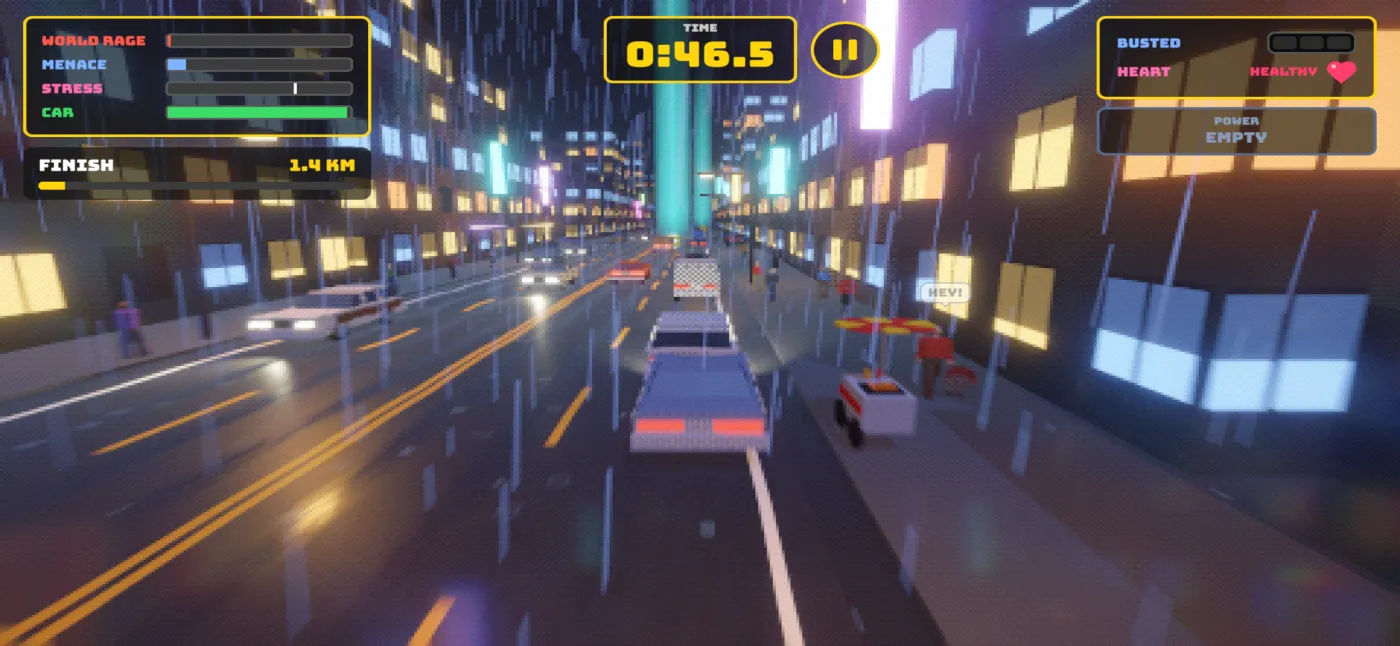
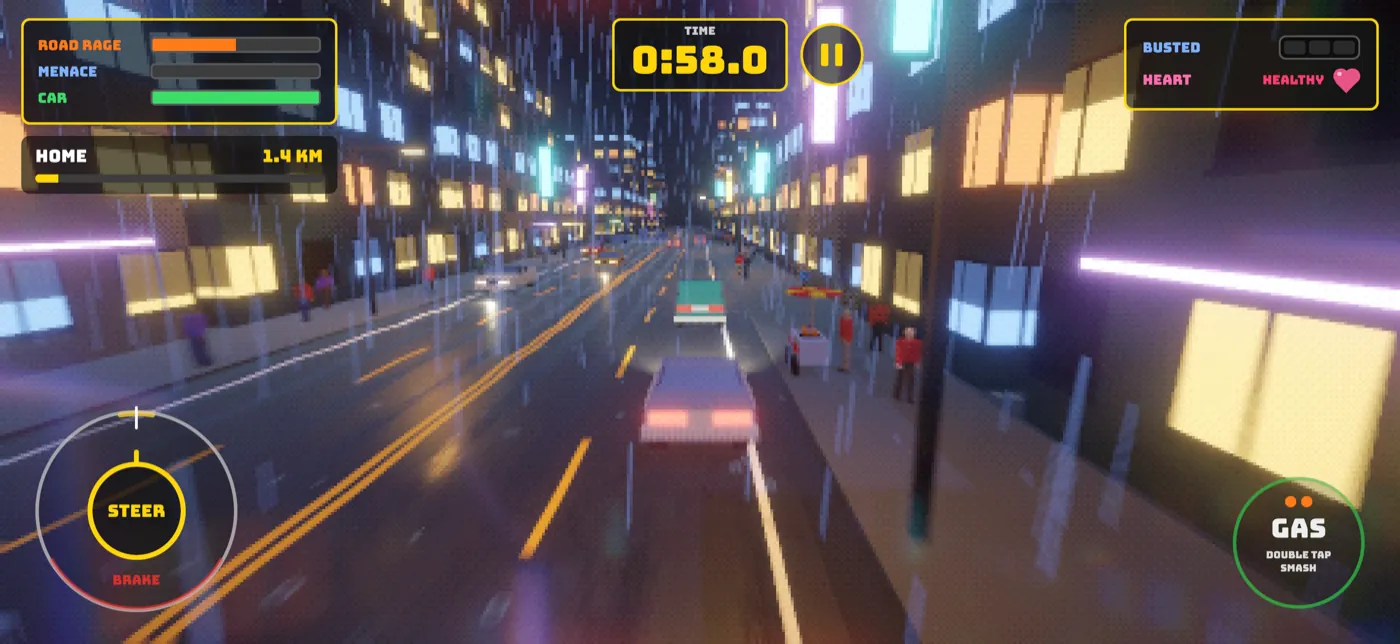
Marketing refresh for 1.0.4: new screenshots and hero at the new lighting looks; copy for the ROAD RAGE meter, random looks, gesture controls, Practice Lot and goal lines (#8)

diff --git a/index.html b/index.html
@@ -13,7 +13,9 @@
 <meta property="og:description" content="Road Rage is a fast, chaotic driving game for iPhone, iPad and Android. Get from A to B before the clock runs out, by any means necessary.">
 <meta property="og:type" content="website">
 <meta property="og:url" content="https://roadrage99.com/">
-<meta property="og:image" content="https://roadrage99.com/img/downtown.webp">
+<meta property="og:image" content="https://roadrage99.com/img/og-night-city.jpg">
+<meta property="og:image:width" content="1200">
+<meta property="og:image:height" content="630">
 </head>
 <body>
 <a class="skip" href="#main">Skip to content</a>
@@ -27,37 +29,41 @@
 <p><a class="btn" href="#get">Get the game</a> <a class="btn alt" href="support.html">How to play</a></p>
 </div></section>
 <div class="wrap">
-<p class="lead">You are late, the traffic is slow and the clock is not on your side. Floor it from A to B through fifteen chaotic levels: desert highways, rush-hour downtown, a rainy neon night, a mountain pass, the school run. Shove through traffic, take the secret shortcuts, and try not to make the cops, or your own heart, too angry.</p>
+<p class="lead">You are late, the traffic is slow and the clock is not on your side. Floor it from A to B through fifteen chaotic levels: desert highways, rush-hour downtown, a rainy neon night, a mountain pass, the school run. Getting hit or stuck in traffic fills your ROAD RAGE meter. Unleash it and smash everything in your way, or sit on it and your heart gives out. Every run picks a new look, from dusk skies to neon-soaked wet streets.</p>
 <figure class="shot"><video src="img/rage-mode.mp4" poster="img/rage-mode-poster.webp" width="848" height="384" autoplay muted loop playsinline preload="metadata" aria-label="Road Rage gameplay: the ROAD RAGE meter fills in Night City traffic, then Rage Mode smashes cars out of the way"></video><figcaption>Stuck behind traffic? Slide up to ROAD RAGE and smash your way through.</figcaption></figure>
-<figure class="shot"><img src="img/downtown.webp" width="1400" height="646" alt="Road Rage gameplay: a car driving down a busy downtown street with a countdown timer and touch controls" loading="lazy" decoding="async"><figcaption>Downtown at rush hour. Hold to drive, steer with your thumb, and SMASH anything slow.</figcaption></figure>
+<figure class="shot"><img src="img/night-city.webp" width="1400" height="644" alt="Road Rage gameplay: a car driving through a rainy neon city at night, with the gesture touch controls" loading="lazy" decoding="async"><figcaption>Night City: SEETHE THROUGH THE STORM! Hold to drive, steer with your thumb, and double-tap to SMASH anything slow.</figcaption></figure>
 <h2>What you get</h2>
 <div class="grid three">
-<div class="card"><h3>15 levels</h3><p>From the Desert Highway to Downtown, Night City, Harbor, Mountain Pass, Pizza Delivery, Street Race and the Pursuit survival mode.</p></div>
+<div class="card"><h3>15 levels</h3><p>From the Desert Highway to Downtown, Night City, Harbor, Mountain Pass, Pizza Delivery, Street Race, Golden Gate Park and the Pursuit survival mode. Each one has a goal, and the goals are angry: GET TO THE D#%@ DENTIST!</p></div>
+<div class="card"><h3>One ROAD RAGE meter</h3><p>Getting hit, rammed or stuck behind traffic fills it. When it is full, UNLEASH IT: a few seconds of smashing cars out of your way. Wait too long and the chest pains start.</p></div>
+<div class="card"><h3>A new look every run</h3><p>Over 40 lighting looks across the levels: neon nights with lit windows, rain-slicked roads, fog, golden hour and dusk skies. Same road, different mood, every time you play.</p></div>
 <div class="card"><h3>6 cars and a garage</h3><p>The all-rounder Drifter, the fast Rocket, the tough Boulder, the Hauler, the Muscle and the Taxi. Earn Gas Money, buy cars and upgrade speed, steering, suspension and toughness.</p></div>
-<div class="card"><h3>Built for phone and pad</h3><p>Touch controls out of the box, plus gamepad support, including Bluetooth controllers.</p></div>
+<div class="card"><h3>Powers and cops</h3><p>Grab crates for the Juggernaut, Ramp Plow, Mech Bat, Parting of the Sea and more. Drive like a maniac and the cops pull you over: talk your way out fast.</p></div>
+<div class="card"><h3>Built for phone and pad</h3><p>Gesture controls out of the box (hold to drive, double-tap to smash), classic buttons if you prefer, and gamepad support, including Bluetooth controllers. The Practice Lot teaches you the ropes on your first drive.</p></div>
 </div>
 <div class="grid two" style="margin-top:1.5rem">
-<figure class="shot"><img src="img/night-city.webp" width="1400" height="646" alt="Road Rage gameplay: a car driving through a rainy neon city at night" loading="lazy" decoding="async"><figcaption>Night City: neon, rain and a shift with nothing better to do.</figcaption></figure>
-<figure class="shot"><img src="img/mountain-pass.webp" width="1400" height="646" alt="Road Rage gameplay: a car on a mountain highway with a guardrail" loading="lazy" decoding="async"><figcaption>Mountain Pass.</figcaption></figure>
-<figure class="shot"><img src="img/street-race.webp" width="1400" height="646" alt="Road Rage gameplay: a street race with a checkpoint arrow" loading="lazy" decoding="async"><figcaption>Street Race: first of four, checkpoint 1.</figcaption></figure>
-<figure class="shot"><img src="img/school-run.webp" width="1400" height="646" alt="Road Rage gameplay: a car driving past a crowded sidewalk" loading="lazy" decoding="async"><figcaption>The School Run.</figcaption></figure>
+<figure class="shot"><img src="img/road-rage-mode.webp" width="1400" height="644" alt="Road Rage gameplay: Rage Mode unleashed, cars flying off the road in a red haze at dusk" loading="lazy" decoding="async"><figcaption>RAGE MODE: cars bounce off you for a few glorious seconds.</figcaption></figure>
+<figure class="shot"><img src="img/juggernaut.webp" width="1400" height="644" alt="Road Rage gameplay: the Juggernaut power launching a car into the air on a suburban street at dusk" loading="lazy" decoding="async"><figcaption>The Juggernaut power: bigger, heavier, and everything else flies.</figcaption></figure>
+<figure class="shot"><img src="img/desert-highway.webp" width="1400" height="644" alt="Road Rage gameplay: a desert highway at dusk with red mesas and headlights" loading="lazy" decoding="async"><figcaption>Desert Highway at dusk: GET TO THE D#%@ DENTIST!</figcaption></figure>
+<figure class="shot"><img src="img/downtown.webp" width="1400" height="644" alt="Road Rage gameplay: a downtown street at night with neon signs, lit windows and rain" loading="lazy" decoding="async"><figcaption>Downtown on a neon night: RAM THROUGH RUSH HOUR!</figcaption></figure>
+<figure class="shot"><img src="img/pulled-over.webp" width="1400" height="644" alt="Road Rage gameplay: pulled over by a police car on a wet street at night, with a TALK button to mash" loading="lazy" decoding="async"><figcaption>Pulled over. Tap fast to talk your way out; three stops and you are busted.</figcaption></figure>
+<figure class="shot"><img src="img/harbor-storm.webp" width="1400" height="644" alt="Road Rage gameplay: a harbor road between stacked shipping containers in a night storm" loading="lazy" decoding="async"><figcaption>Harbor in a night storm: RAISE HELL THROUGH THE HARBOR!</figcaption></figure>
+<figure class="shot"><img src="img/suburbs-after-rain.webp" width="1400" height="644" alt="Road Rage gameplay: a wet suburban street in the evening after rain" loading="lazy" decoding="async"><figcaption>The Suburbs after the rain: SCORCH THE SUBURBS!</figcaption></figure>
+<figure class="shot"><img src="img/ocean-sunset.webp" width="1400" height="644" alt="Road Rage gameplay: a park road at sunset with the ocean on the horizon" loading="lazy" decoding="async"><figcaption>Golden Gate Park at sunset: DAZZLE YOUR DATE... OR ELSE!</figcaption></figure>
+<figure class="shot"><img src="img/mountain-pass.webp" width="1400" height="644" alt="Road Rage gameplay: a mountain highway with a guardrail in golden evening light" loading="lazy" decoding="async"><figcaption>Mountain Pass: LEVEL THE MOUNTAINS WITH FURY!</figcaption></figure>
+<figure class="shot"><img src="img/street-race.webp" width="1400" height="644" alt="Road Rage gameplay: a night street race with a checkpoint arrow and a rival car" loading="lazy" decoding="async"><figcaption>Street Race: BURY ALL 3 RIVALS!</figcaption></figure>
+<figure class="shot"><img src="img/school-run.webp" width="1400" height="644" alt="Road Rage gameplay: the school run at night past a park and lit city towers" loading="lazy" decoding="async"><figcaption>The School Run: BULLDOZE THE SCHOOL RUN!</figcaption></figure>
+<figure class="shot"><img src="img/pizza-delivery.webp" width="1400" height="644" alt="Road Rage gameplay: delivering a pizza on a rainy night, stopping at the glowing ring" loading="lazy" decoding="async"><figcaption>Pizza Delivery in the rain: stop at the glowing ring.</figcaption></figure>
 </div>
 <div class="grid two" style="margin-top:1.5rem">
 <figure class="shot"><img src="img/garage.webp" width="1400" height="646" alt="Road Rage garage screen with the blue Drifter, upgrade bars and prices in Gas Money" loading="lazy" decoding="async"><figcaption>The garage: pick a car, spend your Gas Money, fill the upgrade bars.</figcaption></figure>
 <figure class="shot"><img src="img/upgrade-xray.webp" width="1400" height="646" alt="Road Rage upgrade show: the car turns to an X-ray outline while a new engine swaps in" loading="lazy" decoding="async"><figcaption>The upgrade show: the car goes X-ray while the new engine goes in.</figcaption></figure>
 <figure class="shot"><img src="img/upgrade-done.webp" width="1400" height="646" alt="Road Rage upgrade show: a SPEED LV 3 banner over the blue Drifter in the garage bay" loading="lazy" decoding="async"><figcaption>Speed level 3, and the rusty old engine on the floor.</figcaption></figure>
-<figure class="shot"><img src="img/muscle-downtown.webp" width="1400" height="646" alt="Road Rage gameplay: an orange Muscle car in downtown traffic" loading="lazy" decoding="async"><figcaption>The orange Muscle car in Downtown traffic.</figcaption></figure>
-<figure class="shot"><img src="img/desert-highway.webp" width="1400" height="646" alt="Road Rage gameplay: a car at speed on the desert highway" loading="lazy" decoding="async"><figcaption>Desert Highway at speed.</figcaption></figure>
-<figure class="shot"><img src="img/night-rain.webp" width="1400" height="646" alt="Road Rage gameplay: a car driving through a rainy neon city at night" loading="lazy" decoding="async"><figcaption>Night City in the rain.</figcaption></figure>
-<figure class="shot"><img src="img/juggernaut.webp" width="1400" height="646" alt="Road Rage gameplay: the Juggernaut power smashing a fruit stand and launching a car" loading="lazy" decoding="async"><figcaption>The Juggernaut power: smash a fruit stand, launch a car.</figcaption></figure>
 <figure class="shot"><img src="img/results.webp" width="1400" height="646" alt="Road Rage results screen with three stars and the Gas Money earned" loading="lazy" decoding="async"><figcaption>Made it: three stars and the Gas Money earned.</figcaption></figure>
-</div>
-<figure class="shot"><img src="img/pizza-delivery.webp" width="1400" height="646" alt="Road Rage gameplay: delivering a pizza at night with streetlights lighting the walls" loading="lazy" decoding="async"><figcaption>Pizza Delivery after dark: stop at the glowing ring.</figcaption></figure>
-<figure class="shot"><img src="img/late-for-work.webp" width="1400" height="646" alt="Road Rage gameplay: a sunset commute through downtown with a checkpoint arrow" loading="lazy" decoding="async"><figcaption>Late for Work: coffee first, then the office.</figcaption></figure>
-<figure class="shot"><img src="img/super-juggernaut.webp" width="1400" height="646" alt="Road Rage gameplay: Super Juggernaut active with a 30 second timer" loading="lazy" decoding="async"><figcaption>Super Juggernaut: 30 seconds of unstoppable.</figcaption></figure>
 <figure class="shot"><img src="img/shop.webp" width="1400" height="646" alt="Road Rage garage shop with Gas Money packs and Super Juggernaut starts" loading="lazy" decoding="async"><figcaption>The shop: Gas Money packs and Super Juggernaut starts.</figcaption></figure>
-<figure class="shot"><img src="img/controller.webp" width="1400" height="646" alt="Road Rage HUD with PlayStation controller button prompts" loading="lazy" decoding="async"><figcaption>Plays with a controller: PlayStation, Xbox or touch.</figcaption></figure>
 <figure class="shot"><img src="img/level-select.webp" width="1400" height="646" alt="Road Rage level select screen with the car list, best times and a list of levels" loading="lazy" decoding="async"><figcaption>The level select. Pick a level, pick a car, hit DRIVE.</figcaption></figure>
+</div>
+<figure class="shot"><img src="img/late-for-work.webp" width="1400" height="644" alt="Road Rage gameplay: a predawn commute through a neon city with a checkpoint arrow" loading="lazy" decoding="async"><figcaption>Late for Work: ERRANDS FIRST. THEN RAGE TO WORK!</figcaption></figure>
 <h2 id="get">Get the game</h2>
 <div class="card"><p><span class="badge">COMING SOON</span> Road Rage is for iPhone and iPad. Android is coming soon on Google Play.</p>
 <p>Want to help test? See the <a href="support.html#testflight">TestFlight note</a> on the support page.</p></div>

diff --git a/press.html b/press.html
@@ -37,37 +37,38 @@
 <h2>Short description</h2>
 <p>Road Rage is a fast, chaotic driving game for your phone. You are late; get from A to B before the clock runs out, by any means necessary.</p>
 <h2>Long description</h2>
-<p>You are late, the traffic is slow and the clock is not on your side. In Road Rage you floor it from A to B through fifteen levels: an open desert highway, rush-hour downtown, a rain-soaked neon night, a mountain pass, the school run, a pizza delivery and a street race. Shove through traffic, find the risky secret shortcuts, and keep an eye on your own rage and the heat you attract, because the cops notice and your heart is not as young as it was. Earn Gas Money for every finish, then spend it in the garage on new cars (the Drifter, Rocket, Boulder, Hauler, Muscle and Taxi) and on upgrades for speed, steering, suspension and toughness, and watch the garage swap each rusty part for a shiny one. Play with touch or a Bluetooth gamepad, and chase three stars on every level. A low-poly, late-90s look and a bouncy, grabby suspension make every crash feel good.</p>
+<p>You are late, the traffic is slow and the clock is not on your side. In Road Rage you floor it from A to B through fifteen levels: an open desert highway, rush-hour downtown, a rain-soaked neon night, a stormy harbor, a mountain pass, the school run, a pizza delivery and a street race, each with a goal shouted at you (GET TO THE D#%@ DENTIST!). Every hit, ram and minute stuck behind traffic fills your ROAD RAGE meter. Unleash it and the cars bounce off you for a few glorious seconds; sit on it and the chest pains start, then your heart gives out. Grab powers like the Juggernaut, find the risky secret shortcuts, and watch the heat you attract, because the cops will pull you over. Every run picks a new lighting look, from neon nights with lit windows and wet roads to fog, golden hour and dusk skies. Earn Gas Money for every finish, then spend it in the garage on new cars (the Drifter, Rocket, Boulder, Hauler, Muscle and Taxi) and on upgrades for speed, steering, suspension and toughness. Gesture controls out of the box, classic buttons or a Bluetooth gamepad, and a Practice Lot to learn the ropes. A low-poly, late-90s look and a bouncy, grabby suspension make every crash feel good.</p>
 <h2>Features</h2>
 <ul>
-<li>Fifteen levels, from the Desert Highway and Downtown to Night City, Harbor, Mountain Pass, Pizza Delivery, Street Race and the Pursuit survival mode.</li>
-<li>Six cars: Drifter, Rocket, Boulder, Hauler, Muscle and Taxi.</li>
-<li>The garage: earn Gas Money by finishing levels, buy cars and upgrade speed, steering, suspension and toughness.</li>
-<li>The upgrade show: the car lifts, goes X-ray, and the rusty part is swapped for a shiny one.</li>
-<li>Powers such as the Juggernaut, rage, menace and heart-attack stress, cops, and secret shortcuts.</li>
-<li>Touch controls and gamepad support, including Bluetooth controllers.</li>
+<li>Fifteen levels, from the Desert Highway and Downtown to Night City, Harbor, Mountain Pass, Pizza Delivery, Street Race, Golden Gate Park and the Pursuit survival mode.</li>
+<li>One ROAD RAGE meter: fill it by getting hit or stuck, then UNLEASH IT, or your heart gives out.</li>
+<li>Over 40 lighting looks picked at random each run: neon, lit windows, rain-slicked roads, fog, sunsets and dusk skies.</li>
+<li>Powers such as the Juggernaut, Ramp Plow and Parting of the Sea; cops who pull you over; secret shortcuts.</li>
+<li>Six cars and a garage: earn Gas Money by finishing levels, buy cars and upgrade speed, steering, suspension and toughness.</li>
+<li>Gesture touch controls by default, classic buttons, and gamepad support, including Bluetooth controllers. A Practice Lot tutorial on your first drive.</li>
 </ul>
 <h2>Screenshots</h2>
-<p>Click for the full-size image (1400 px wide, WebP).</p>
+<p>Click for the full-size image (1400 px wide, WebP). App Store resolution shots are available on request.</p>
 <div class="grid two">
-<a href="img/downtown.webp"><img src="img/downtown.webp" width="1400" height="646" alt="Downtown gameplay" loading="lazy"></a>
-<a href="img/night-city.webp"><img src="img/night-city.webp" width="1400" height="646" alt="Night City gameplay" loading="lazy"></a>
-<a href="img/mountain-pass.webp"><img src="img/mountain-pass.webp" width="1400" height="646" alt="Mountain Pass gameplay" loading="lazy"></a>
-<a href="img/street-race.webp"><img src="img/street-race.webp" width="1400" height="646" alt="Street Race gameplay" loading="lazy"></a>
-<a href="img/school-run.webp"><img src="img/school-run.webp" width="1400" height="646" alt="School Run gameplay" loading="lazy"></a>
+<a href="img/night-city.webp"><img src="img/night-city.webp" width="1400" height="644" alt="Night City in the neon rain" loading="lazy"></a>
+<a href="img/road-rage-mode.webp"><img src="img/road-rage-mode.webp" width="1400" height="644" alt="Rage Mode unleashed" loading="lazy"></a>
+<a href="img/juggernaut.webp"><img src="img/juggernaut.webp" width="1400" height="644" alt="Juggernaut launching a car" loading="lazy"></a>
+<a href="img/desert-highway.webp"><img src="img/desert-highway.webp" width="1400" height="644" alt="Desert Highway at dusk" loading="lazy"></a>
+<a href="img/downtown.webp"><img src="img/downtown.webp" width="1400" height="644" alt="Downtown on a neon night" loading="lazy"></a>
+<a href="img/pulled-over.webp"><img src="img/pulled-over.webp" width="1400" height="644" alt="Pulled over in the rain" loading="lazy"></a>
+<a href="img/harbor-storm.webp"><img src="img/harbor-storm.webp" width="1400" height="644" alt="Harbor in a night storm" loading="lazy"></a>
+<a href="img/suburbs-after-rain.webp"><img src="img/suburbs-after-rain.webp" width="1400" height="644" alt="Suburbs after the rain" loading="lazy"></a>
+<a href="img/ocean-sunset.webp"><img src="img/ocean-sunset.webp" width="1400" height="644" alt="Golden Gate Park at sunset" loading="lazy"></a>
+<a href="img/mountain-pass.webp"><img src="img/mountain-pass.webp" width="1400" height="644" alt="Mountain Pass" loading="lazy"></a>
+<a href="img/street-race.webp"><img src="img/street-race.webp" width="1400" height="644" alt="Street Race" loading="lazy"></a>
+<a href="img/school-run.webp"><img src="img/school-run.webp" width="1400" height="644" alt="School Run at night" loading="lazy"></a>
+<a href="img/pizza-delivery.webp"><img src="img/pizza-delivery.webp" width="1400" height="644" alt="Pizza Delivery in the rain" loading="lazy"></a>
+<a href="img/late-for-work.webp"><img src="img/late-for-work.webp" width="1400" height="644" alt="Late for Work before dawn" loading="lazy"></a>
 <a href="img/garage.webp"><img src="img/garage.webp" width="1400" height="646" alt="Garage with upgrade bars" loading="lazy"></a>
 <a href="img/upgrade-xray.webp"><img src="img/upgrade-xray.webp" width="1400" height="646" alt="Upgrade show, X-ray swap" loading="lazy"></a>
 <a href="img/upgrade-done.webp"><img src="img/upgrade-done.webp" width="1400" height="646" alt="Upgrade show, finished banner" loading="lazy"></a>
-<a href="img/muscle-downtown.webp"><img src="img/muscle-downtown.webp" width="1400" height="646" alt="Muscle car in Downtown traffic" loading="lazy"></a>
-<a href="img/desert-highway.webp"><img src="img/desert-highway.webp" width="1400" height="646" alt="Desert Highway at speed" loading="lazy"></a>
-<a href="img/night-rain.webp"><img src="img/night-rain.webp" width="1400" height="646" alt="Night City in the rain" loading="lazy"></a>
-<a href="img/juggernaut.webp"><img src="img/juggernaut.webp" width="1400" height="646" alt="Juggernaut smash" loading="lazy"></a>
 <a href="img/results.webp"><img src="img/results.webp" width="1400" height="646" alt="Results screen with Gas Money" loading="lazy"></a>
-<a href="img/pizza-delivery.webp"><img src="img/pizza-delivery.webp" width="1400" height="646" alt="Pizza Delivery at night" loading="lazy"></a>
-<a href="img/late-for-work.webp"><img src="img/late-for-work.webp" width="1400" height="646" alt="Late for Work" loading="lazy"></a>
-<a href="img/super-juggernaut.webp"><img src="img/super-juggernaut.webp" width="1400" height="646" alt="Super Juggernaut" loading="lazy"></a>
 <a href="img/shop.webp"><img src="img/shop.webp" width="1400" height="646" alt="Garage shop" loading="lazy"></a>
-<a href="img/controller.webp"><img src="img/controller.webp" width="1400" height="646" alt="Controller prompts in the HUD" loading="lazy"></a>
 <a href="img/level-select.webp"><img src="img/level-select.webp" width="1400" height="646" alt="Level select screen" loading="lazy"></a>
 </div>
 <h2>Logo and colors</h2>

diff --git a/support.html b/support.html
@@ -58,6 +58,12 @@
 </ul>
 <img src="img/controls-controller.webp" width="1400" height="646" alt="The in-game Controller controls screen" loading="lazy" decoding="async">
 </details>
+<details id="rage"><summary>What is the ROAD RAGE meter?</summary>
+<p>It is your one meter. Getting hit, ramming other cars and sitting stuck behind traffic fill it. When it is full, POWER turns into RAGE: slide up onto it (or tap it, or press X / Square) to UNLEASH IT. For a few seconds cars bounce off you, your smash hits much harder and you go faster, but the cops notice. If you sit on a full meter, the chest pains start, then a heart attack strike. Three heart attacks and the run is over. A Chill Pill empties the meter.</p></details>
+<details id="looks"><summary>Why does a level look different every time?</summary>
+<p>Each run picks one of several lighting looks for the level: a neon night with lit windows, rain and wet roads, fog, golden hour or a dusk sky. It changes how the level looks, not how it plays: your best times count across every look.</p></details>
+<details id="practice"><summary>Can I replay the tutorial?</summary>
+<p>Yes. Your first drive starts in the Practice Lot. To go back any time, pick the PRACTICE LOT card at the top of the level list.</p></details>
 <details id="controllers"><summary>Does it work with a controller?</summary>
 <p>Yes. Connect a Bluetooth gamepad (Xbox or PlayStation controllers pair in iOS Settings, then Bluetooth) and the on-screen buttons give way to controller prompts. The game keeps your screen awake while you play, so it will not lock mid-race.</p></details>
 <details id="restore"><summary>How do I restore my purchases?</summary>
